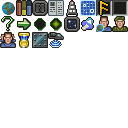
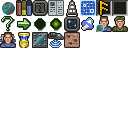
#363 Adds living armor tech and components.
Adds also icon for living armor.

Changed region(s): [[0.5, 0.25, 0.625, 0.375]]

diff --git a/src/main/java/org/openRealmOfStars/player/ship/ShipComponentFactory.java b/src/main/java/org/openRealmOfStars/player/ship/ShipComponentFactory.java
@@ -39,7 +39,7 @@ public final class ShipComponentFactory {
    * Remember to increase this when new ship hull is added to game.
    * It should be one bigger than last index.
    */
-  private static final int MAX_SHIPCOMPONENT = 163;
+  private static final int MAX_SHIPCOMPONENT = 166;
 
   /**
    * Component Ion drive Mk1
@@ -845,6 +845,18 @@ public final class ShipComponentFactory {
    * Distortion shield Mk3
    */
   public static final int COMPONENT_DISTORTION_SHIELD_MK3 = 162;
+  /**
+   * Living armor Mk1
+   */
+  public static final int COMPONENT_LIVING_ARMOR_MK1 = 163;
+  /**
+   * Living armor Mk2
+   */
+  public static final int COMPONENT_LIVING_ARMOR_MK2 = 164;
+  /**
+   * Living armor Mk3
+   */
+  public static final int COMPONENT_LIVING_ARMOR_MK3 = 165;
 
 /**
    * Create ShipComponent with matching name
@@ -868,10 +880,12 @@ public final class ShipComponentFactory {
 
   /**
    * Create Ship component with index
+   * Part 1 just to make method shorter.
    * @param index Index to create
    * @return ShipComponent or null if index is not found
    */
-  public static ShipComponent create(final int index) {
+
+  private static ShipComponent createPart1(final int index) {
     ShipComponent tmp = null;
     switch (index) {
     case COMPONENT_ION_DRIVE_MK1:
@@ -1043,6 +1057,23 @@ public final class ShipComponentFactory {
     case COMPONENT_HE_MISSILE_MK3:
       tmp = createWeapon(index);
       break; // HE missile Mk3
+    default: {
+      ErrorLogger.log("Unexpected component with index: " + index);
+      throw new IllegalArgumentException("Unexpected component index: "
+                                        + index + "!");
+    }
+    }
+    return tmp;
+  }
+  /**
+   * Create Ship component with index
+   * Part 2 just to make method shorter.
+   * @param index Index to create
+   * @return ShipComponent or null if index is not found
+   */
+  public static ShipComponent createPart2(final int index) {
+    ShipComponent tmp = null;
+    switch (index) {
     case COMPONENT_ORBITAL_BOMBS_MK2:
       tmp = createElectronics(index);
       break; // Orbital bombs Mk2
@@ -1369,11 +1400,35 @@ public final class ShipComponentFactory {
     case COMPONENT_DISTORTION_SHIELD_MK3:
       tmp = createDefense(index);
       break; // Distortion shield Mk3
+    case COMPONENT_LIVING_ARMOR_MK1:
+      tmp = createDefense(index);
+      break; // Living Armor Mk1
+    case COMPONENT_LIVING_ARMOR_MK2:
+      tmp = createDefense(index);
+      break; // Living Armor Mk2
+    case COMPONENT_LIVING_ARMOR_MK3:
+      tmp = createDefense(index);
+      break; // Living Armor Mk3
     default: {
       ErrorLogger.log("Unexpected component with index: " + index);
       throw new IllegalArgumentException("Unexpected component index: "
                                         + index + "!");
     }
+    }
+    return tmp;
+  }
+
+  /**
+   * Create Ship component with index
+   * @param index Index to create
+   * @return ShipComponent or null if index is not found
+   */
+  public static ShipComponent create(final int index) {
+    ShipComponent tmp = null;
+    if (index < COMPONENT_ORBITAL_BOMBS_MK2) {
+      tmp = createPart1(index);
+    } else {
+      tmp = createPart2(index);
     }
     return tmp;
   }
@@ -2508,6 +2563,24 @@ public final class ShipComponentFactory {
       tmp.setDefenseValue(5); // Shield bonus
       tmp.setDamage(15); // Jammer bonus
       tmp.setEnergyResource(4);
+    }
+    if (index == COMPONENT_LIVING_ARMOR_MK1) {
+      tmp = new ShipComponent(index, "Living armor Mk1", 6, 6,
+          ShipComponentType.LIVING_ARMOR);
+      tmp.setDefenseValue(2);
+      tmp.setEnergyRequirement(3);
+    }
+    if (index == COMPONENT_LIVING_ARMOR_MK2) {
+      tmp = new ShipComponent(index, "Living armor Mk2", 8, 8,
+          ShipComponentType.LIVING_ARMOR);
+      tmp.setDefenseValue(4);
+      tmp.setEnergyRequirement(2);
+    }
+    if (index == COMPONENT_LIVING_ARMOR_MK3) {
+      tmp = new ShipComponent(index, "Living armor Mk3", 10, 10,
+          ShipComponentType.LIVING_ARMOR);
+      tmp.setDefenseValue(6);
+      tmp.setEnergyRequirement(1);
     }
     return tmp;
 

diff --git a/src/main/java/org/openRealmOfStars/player/tech/TechFactory.java b/src/main/java/org/openRealmOfStars/player/tech/TechFactory.java
@@ -118,7 +118,7 @@ public final class TechFactory {
    * Defense rare tech names for level 3.
    */
   public static final String[] DEFENSE_RARE_TECH_LEVEL3_NAMES = {
-      "Solar armor Mk1"};
+      "Solar armor Mk1", "Living armor Mk1"};
   /**
    * Defense tech names for level 4
    */
@@ -143,7 +143,7 @@ public final class TechFactory {
    * Defense rare tech names for level 6.
    */
   public static final String[] DEFENSE_RARE_TECH_LEVEL6_NAMES = {
-      "Solar armor Mk2", "Distortion shield Mk2"};
+      "Solar armor Mk2", "Distortion shield Mk2", "Living armor Mk2"};
   /**
    * Defense tech names for level 7
    */
@@ -158,7 +158,7 @@ public final class TechFactory {
    * Defense rare tech names for level 8.
    */
   public static final String[] DEFENSE_RARE_TECH_LEVEL8_NAMES = {
-      "Distortion shield Mk3"};
+      "Distortion shield Mk3", "Living armor Mk3"};
   /**
    * Defense tech names for level 9
    */
@@ -551,7 +551,16 @@ public final class TechFactory {
             if (techName.equals("Solar armor Mk2")) {
               tech.setNextTechOnTree("Solar armor Mk3");
             }
-        } else if (techName.startsWith("Distortion shield")) {
+        } else if (techName.startsWith("Living armor")) {
+          tech.setIcon(Icons.getIconByName(Icons.ICON_LIVING_ARMOR));
+          tech.setRareTech(true);
+          if (techName.equals("Living armor Mk1")) {
+            tech.setNextTechOnTree("Living armor Mk2");
+          }
+          if (techName.equals("Living armor Mk2")) {
+            tech.setNextTechOnTree("Living armor Mk3");
+          }
+      } else if (techName.startsWith("Distortion shield")) {
           tech.setIcon(Icons.getIconByName(Icons.ICON_SHIELD));
           tech.setRareTech(true);
           if (techName.equals("Distortion shield Mk1")) {

diff --git a/src/main/java/org/openRealmOfStars/gui/icons/Icons.java b/src/main/java/org/openRealmOfStars/gui/icons/Icons.java
@@ -381,6 +381,10 @@ public final class Icons {
    * Solar armor
    */
   public static final String ICON_SOLAR_ARMOR = "IconSolarArmor";
+  /**
+   * Living armor
+   */
+  public static final String ICON_LIVING_ARMOR = "IconLivingArmor";
 
   /**
    * List of Icon
@@ -667,6 +671,8 @@ public final class Icons {
     icon = new Icon16x16(image, 2, 2, ICON_SOLAR_ARMOR);
     addIcon(icon);
     icon = new Icon16x16(image, 3, 2, ICON_TRACTOR_BEAM);
+    addIcon(icon);
+    icon = new Icon16x16(image, 4, 2, ICON_LIVING_ARMOR);
     addIcon(icon);
   }
 
